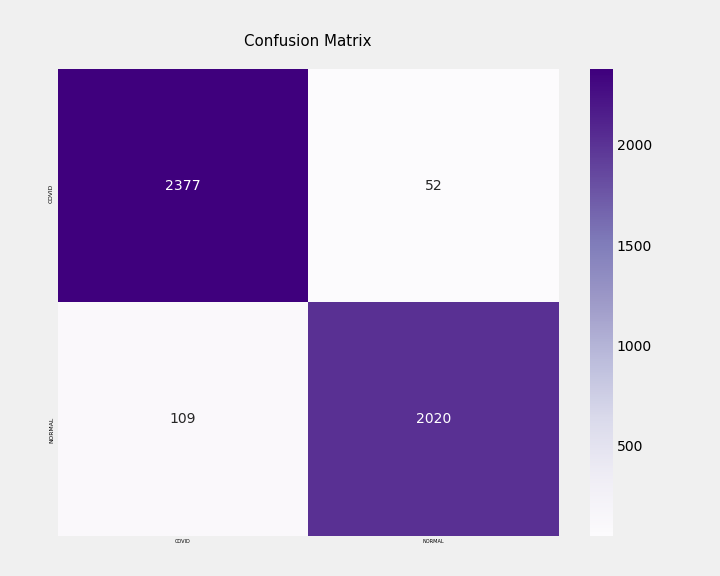
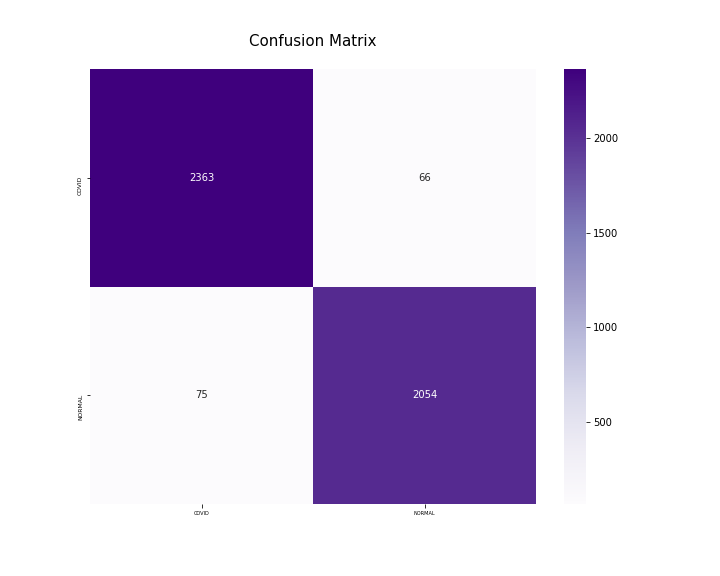
fix minor bug

diff --git a/reports/README.md b/reports/README.md
@@ -1,0 +1,33 @@
+
+# Evaluation Metrics
+The evaluation metrics for the covid-19 detection model are as follows:
+
+Accuracy: The accuracy metric measures the overall correctness of the model's predictions by calculating the ratio of correctly classified samples to the total number of samples. The accuracy achieved by the model is 0.97 .
+
+F1 Score: The F1 score is the harmonic mean of precision and recall. It provides a balanced measure of the model's performance by considering both false positives and false negatives. The F1 score achieved by the model is 0.97.
+
+Recall: Also known as the true positive rate or sensitivity, recall measures the proportion of actual positive samples that are correctly identified by the model. The recall achieved by the model is 0.97.
+
+Precision: Precision is the ratio of true positives to the sum of true positives and false positives. It indicates the model's ability to correctly classify positive samples. The precision achieved by the model is 0.97.
+
+
+|          | precision | recall | f1-score | support |
+| -------- | --------- | ------ | -------- | ------- |
+|    0    |   0.97   |  0.97  |   0.97   |   2429   |
+|   1    |   0.97   |  0.96  |   0.97   |   2129    |
+| accuracy |           |        |   0.97   |   4558    |
+| macro avg|   0.97   |  0.97  |   0.97  |   4558    |
+|weighted avg|  0.97    |  0.97  |   0.97   |   4558   |
+
+-----
+
+## Confusion Matrix
+
+The confusion matrix provides a visual representation of the model's performance by showing the count of true positive, true negative, false positive, and false negative predictions.
+
+![Confusion Matrix](/reports/confusion_matrix.png)
+
+## Training History 
+The training history plot shows the model's accuracy and loss values over the epochs.
+
+![Accuracy and Loss Plot](/reports/training_history.png)

diff --git a/README.md b/README.md
@@ -78,10 +78,10 @@ Precision: 0.961933608955106
 
 | Metric     |    Value     |
 |------------|--------------|
-| Accuracy   | 0.96160596   |
-| F1 Score   | 0.96156022   |
-| Recall     | 0.96160596   |
-| Precision  | 0.96193360   |
+| Accuracy   | 0.971478718  |
+| F1 Score   | 0.971472654  |
+| Recall     | 0.971478718  |
+| Precision  | 0.971485011  |
 
 For further evaluation metrics and details, please check the [reports](reports/)  folder
 
